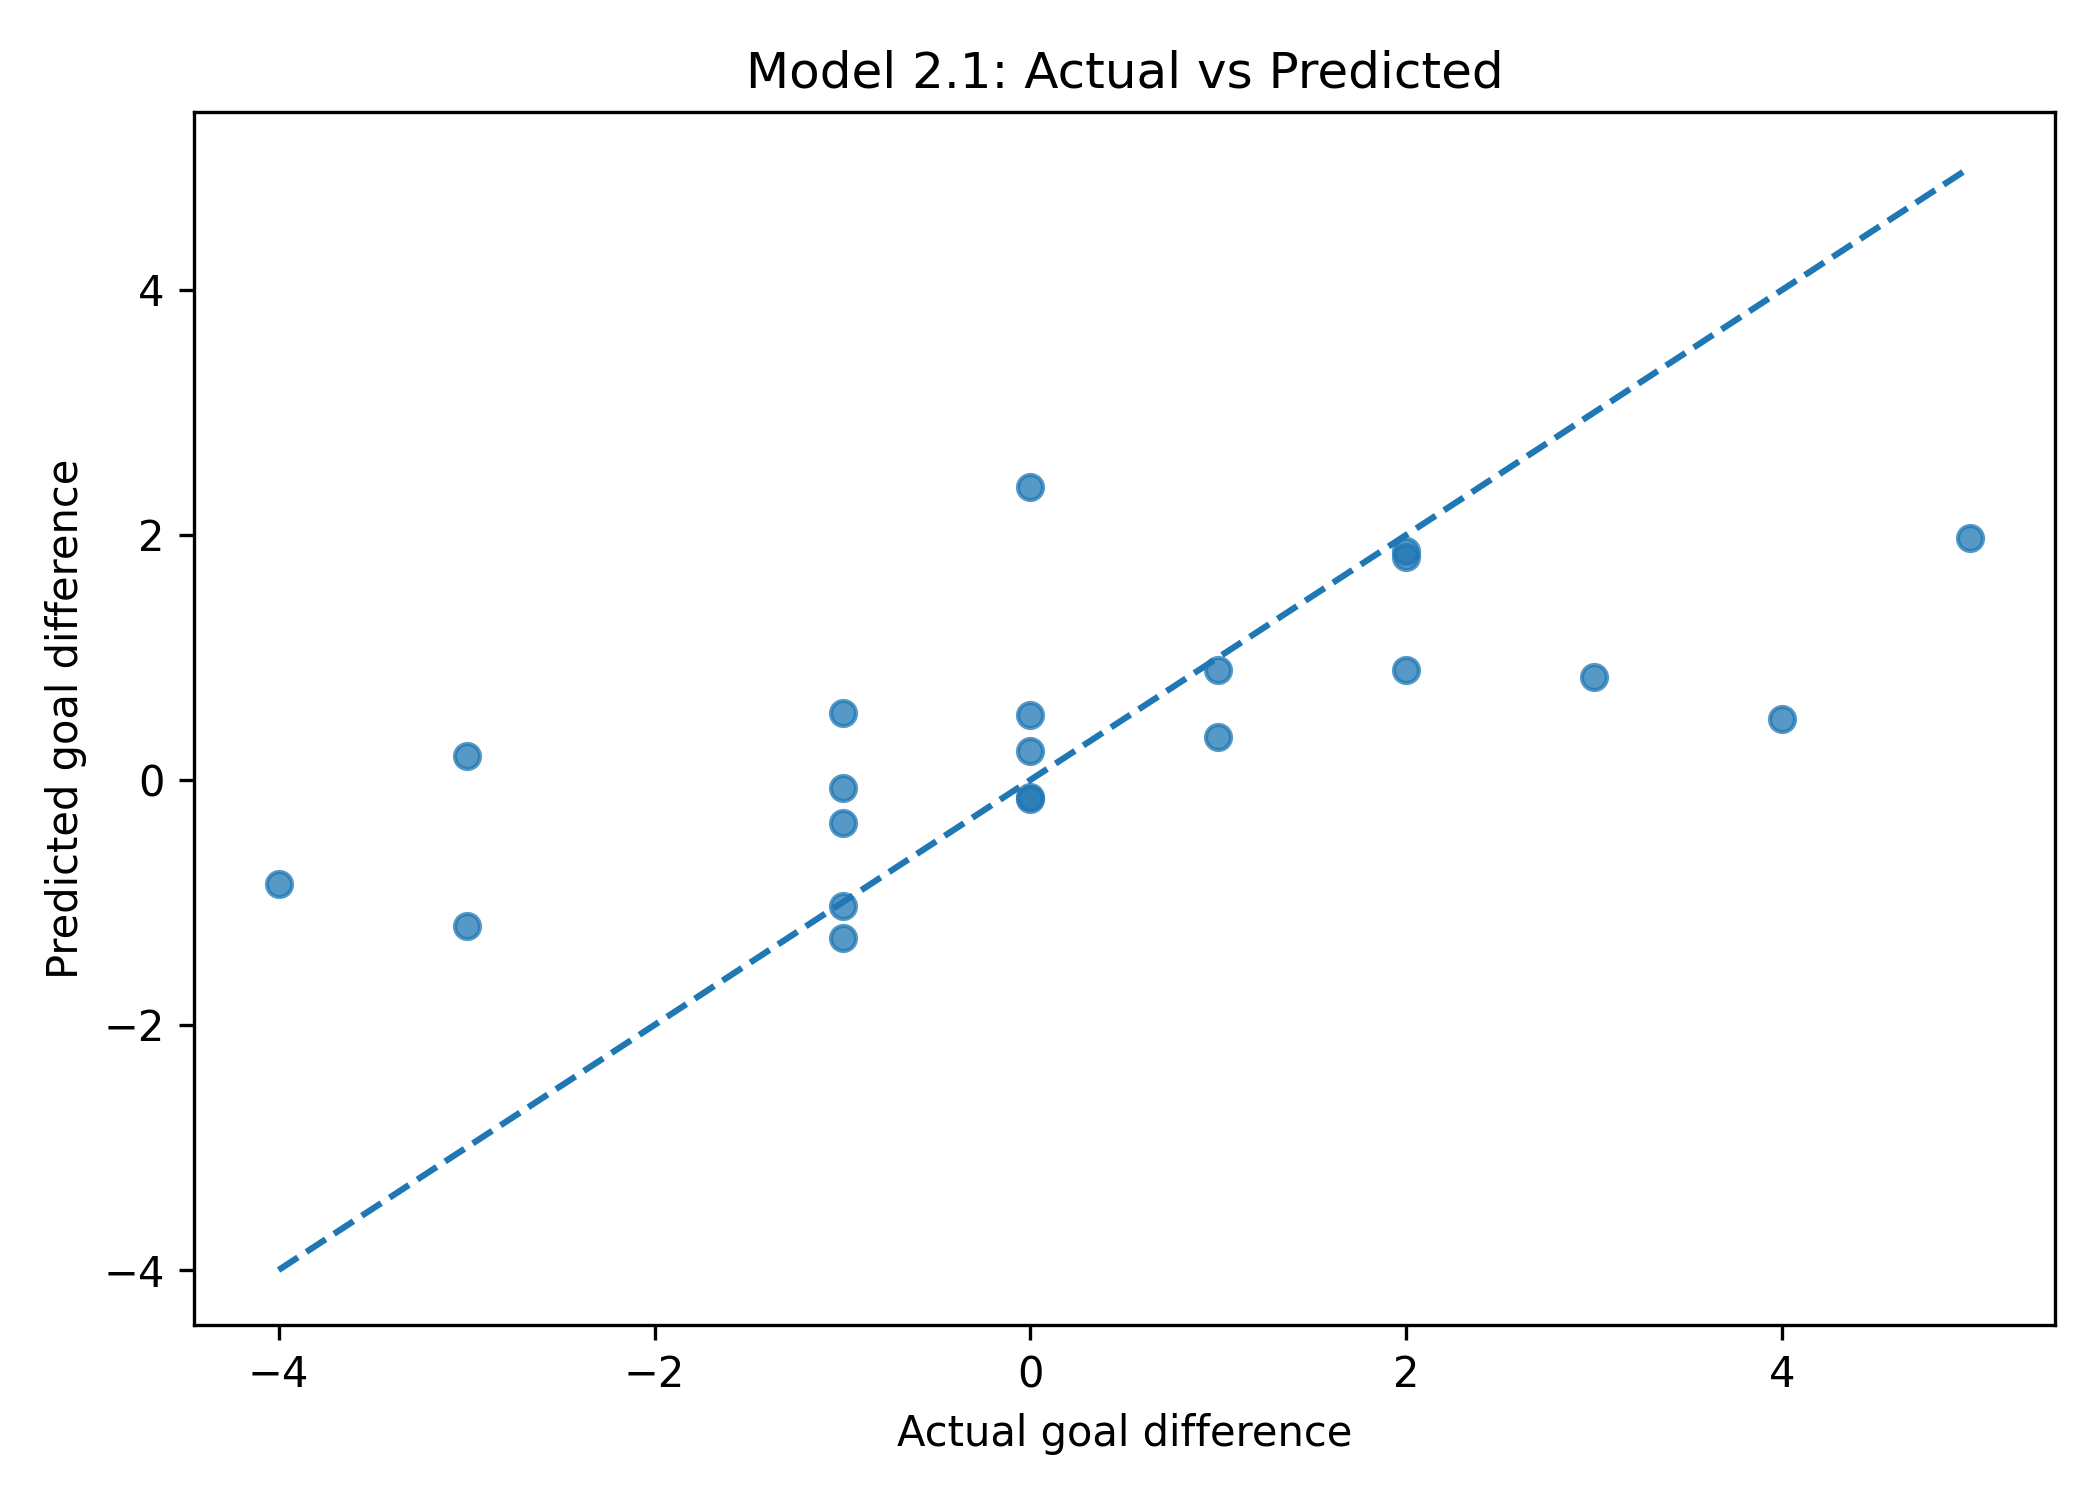
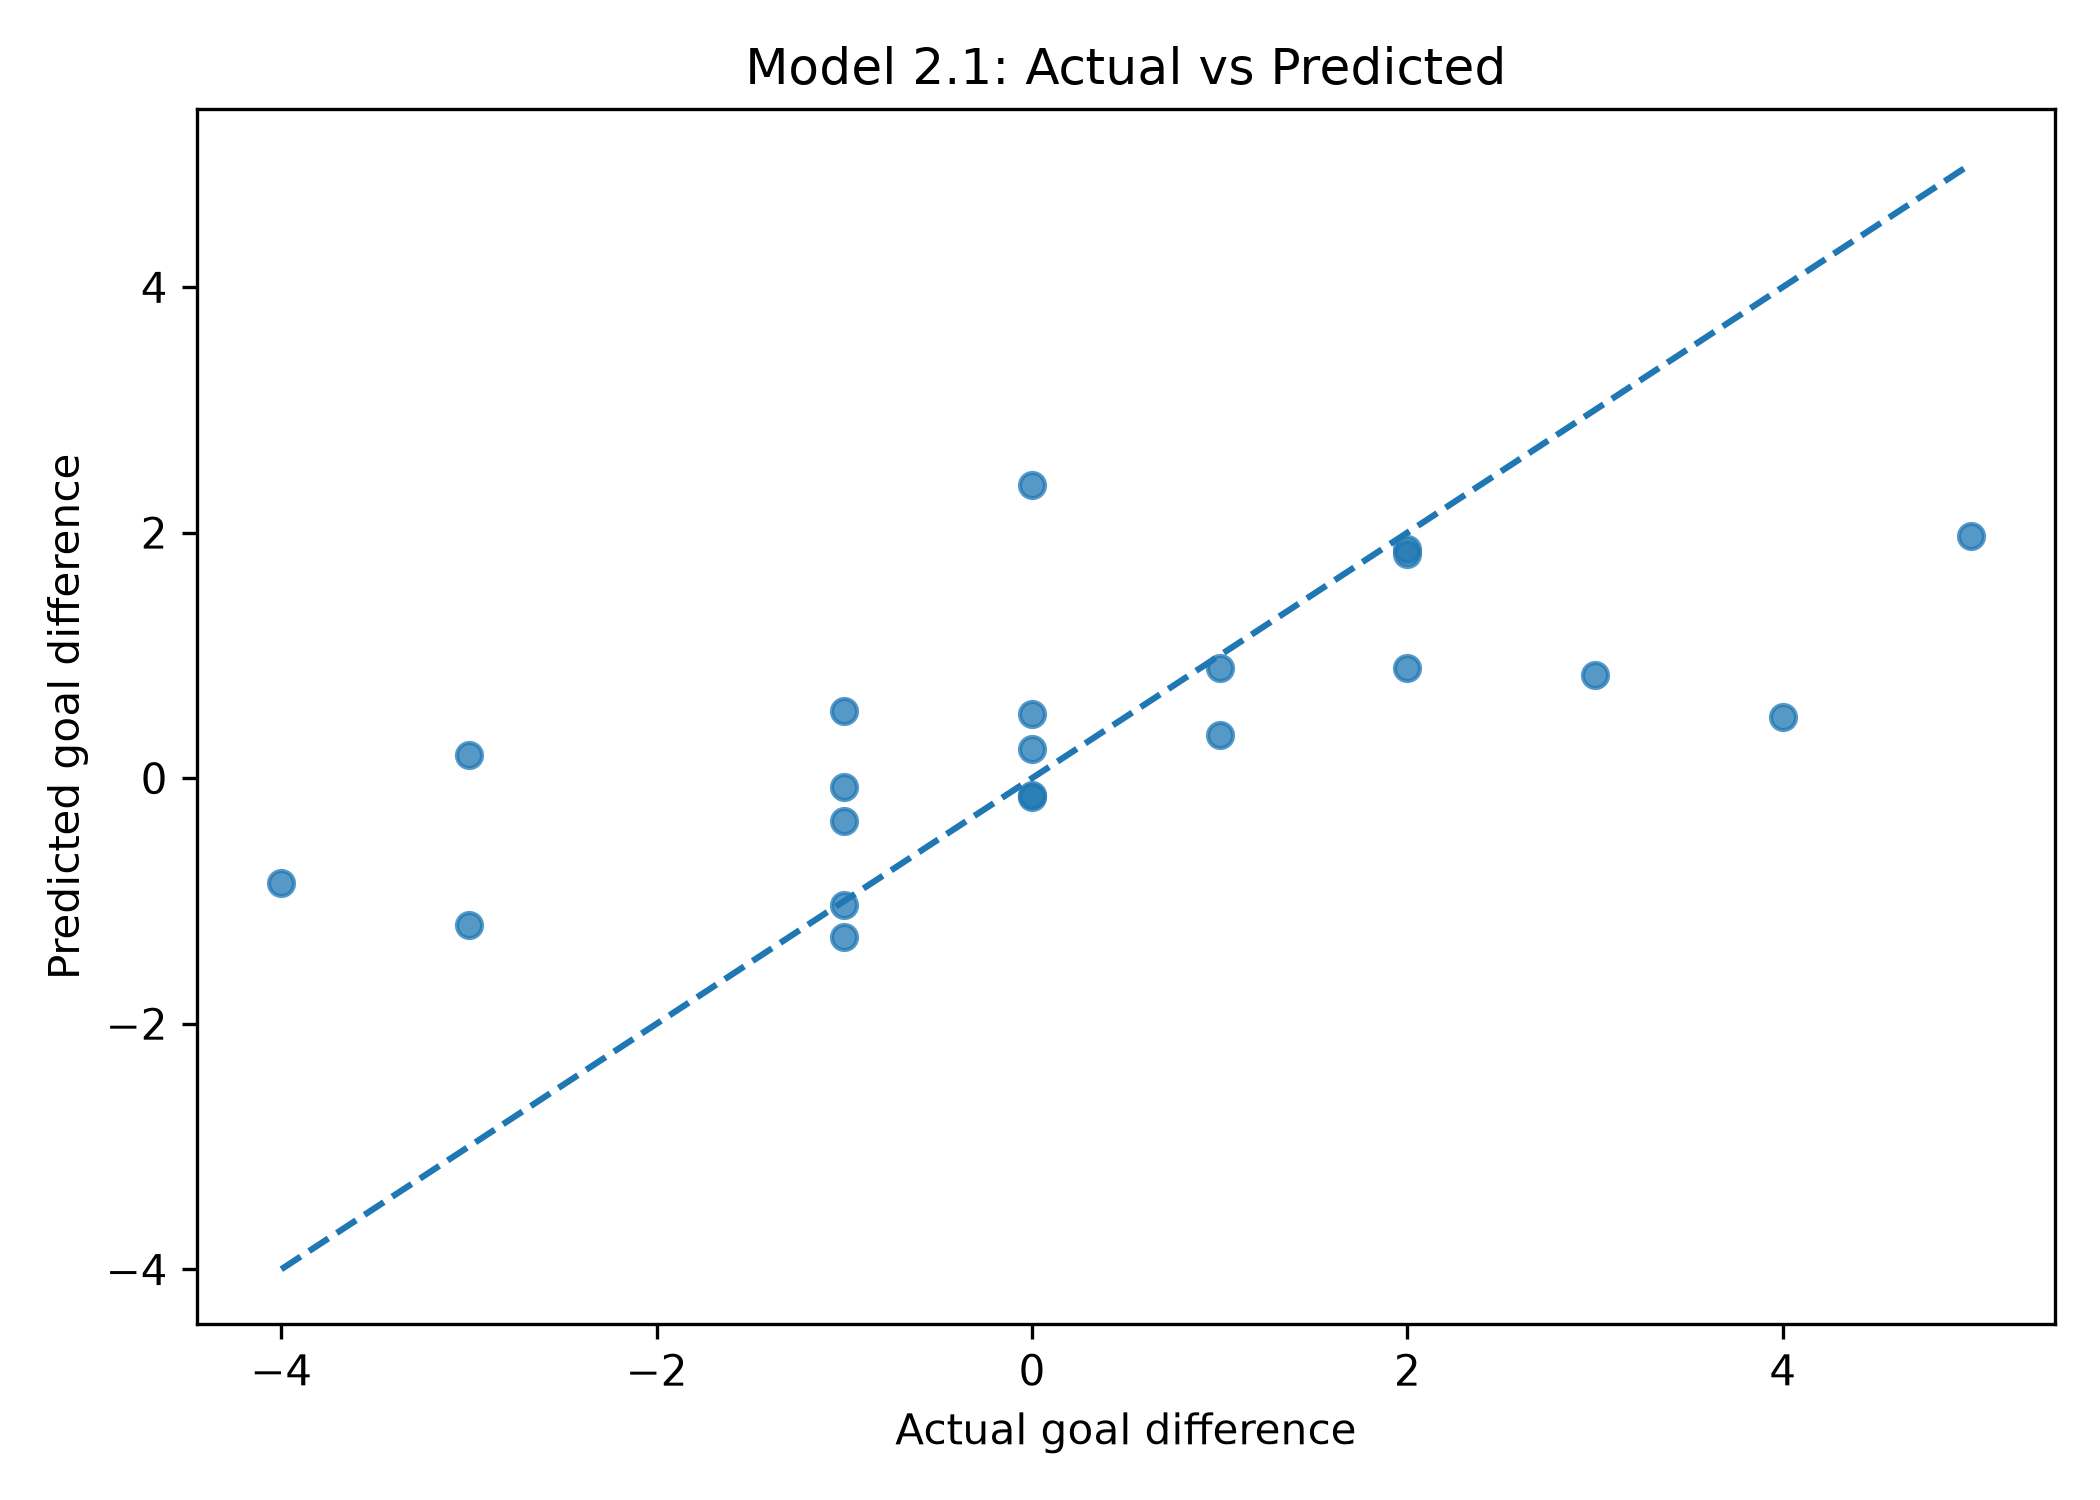
Update data collection and model plots

diff --git a/collect_data.py b/collect_data.py
@@ -76,8 +76,8 @@ ALIASES = {
     "cote d’ivoire": "Ivory Coast",
     "côte d'ivoire": "Ivory Coast",
     "côte d’ivoire": "Ivory Coast",
-    "turkiye": "Turkey",
-    "türkiye": "Turkey",
+    "turkiye": "turkey",
+    "türkiye": "turkey",
     "cape verde islands": "Cape Verde",
     "cape verde": "Cape Verde",
     "united states": "USA",
